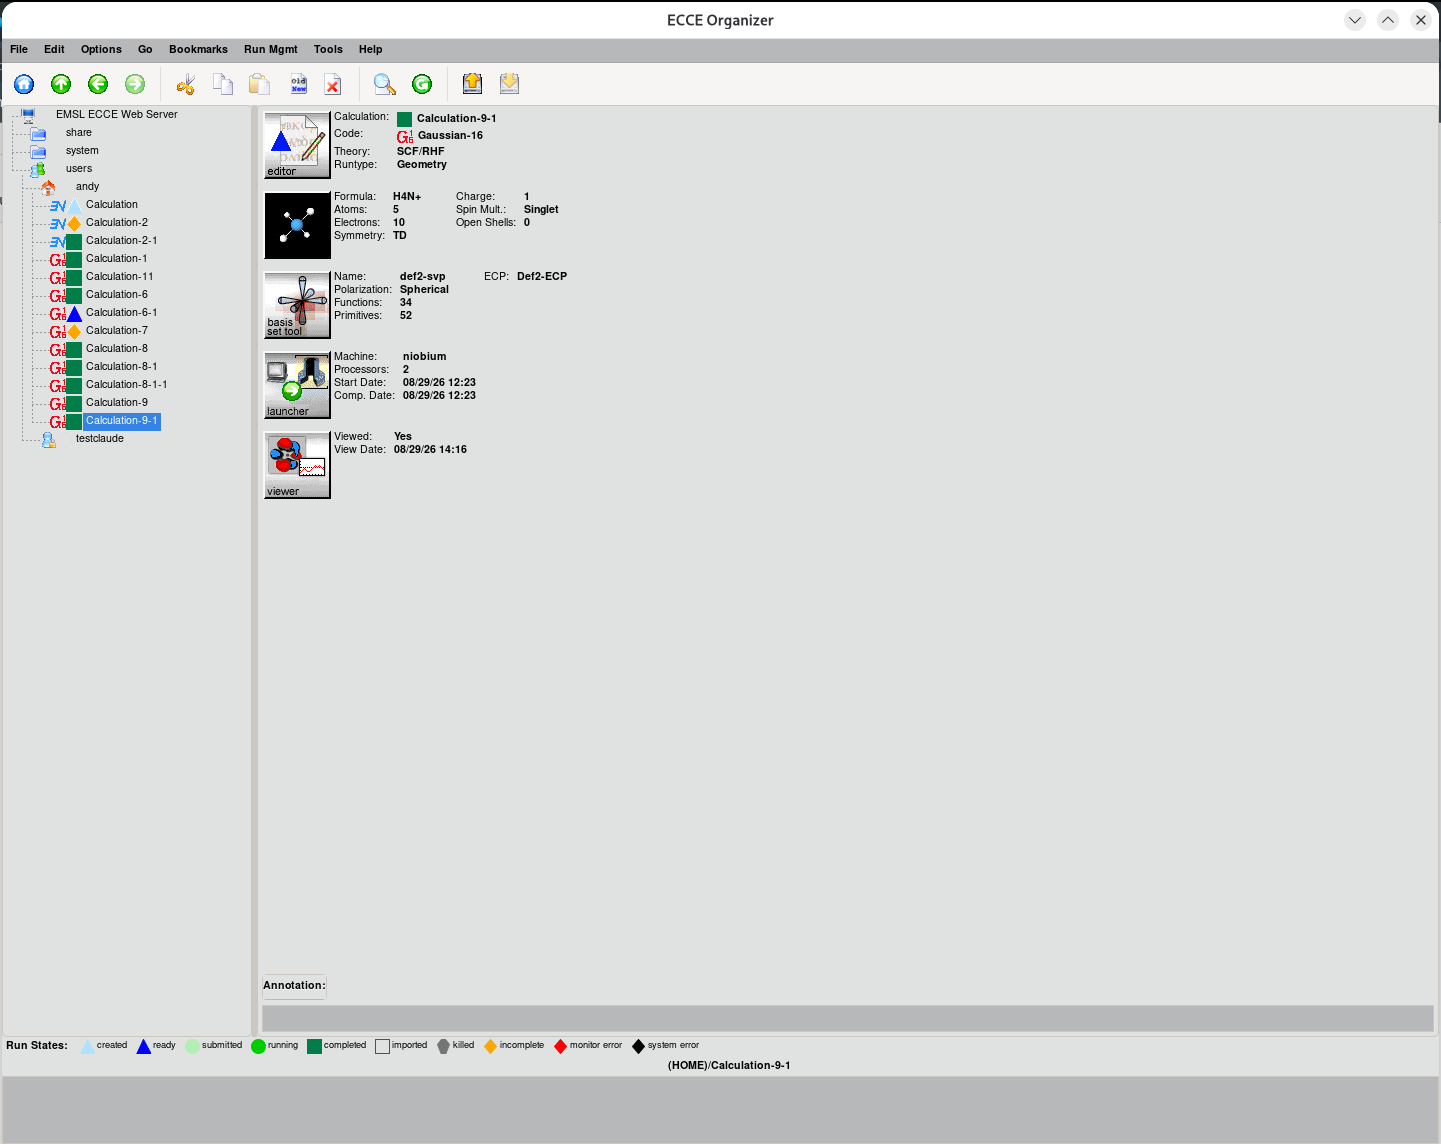
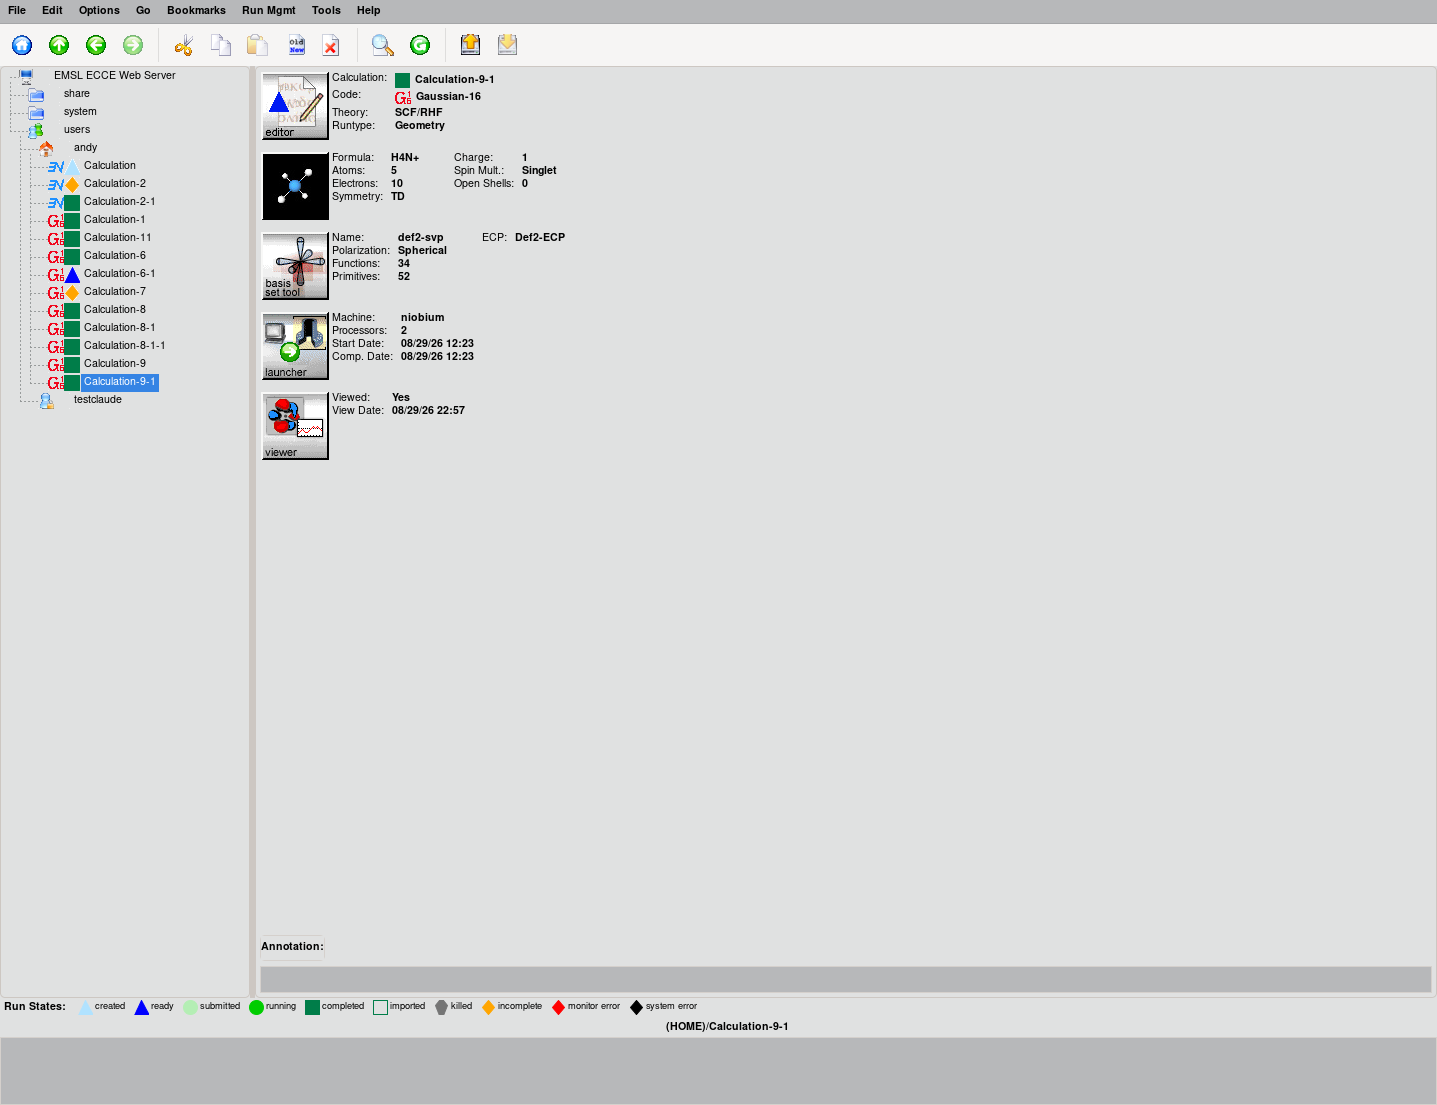
README: refresh screenshots with computed MO isosurface, updated panel layout
New Gateway/Organizer/Viewer screenshots, all against the latest build --
Gateway now shows the correct "ECCE 8.0.0-alpha.1" title, and the Viewer
one shows an actual computed MO 5 isosurface (calc 9-1) with the panel
layout fixes in place (nothing collapsed), a meaningfully better shot
than the previous one taken before those fixes landed. Updated the
caption to match -- the earlier "shows real rough edges" caveat no
longer applies to this screenshot specifically.

Changed region(s): [[0.0, 0.0, 1.0, 0.4615], [0.0, 0.8308, 1.0, 0.9538]]

diff --git a/README.md b/README.md
@@ -23,11 +23,10 @@ bringing the application itself back to life.
 |---|---|
 | ![Gateway toolbar](docs/screenshots/gateway.png) | ![Organizer showing a calculation](docs/screenshots/organizer.png) |
 
-![Viewer showing a molecule, energies, and molecular orbitals](docs/screenshots/viewer.png)
+![Viewer showing a computed molecular orbital](docs/screenshots/viewer.png)
 
-(This is a genuine alpha release — the Viewer screenshot above shows some
-real rough edges in the property-panel layout that are actively being
-worked on, not a polished mockup.)
+The Viewer screenshot above shows a real computed MO isosurface (MO 5) on
+a genuine calculation — real output, not a mockup.
 
 ## What's new in this release
 
